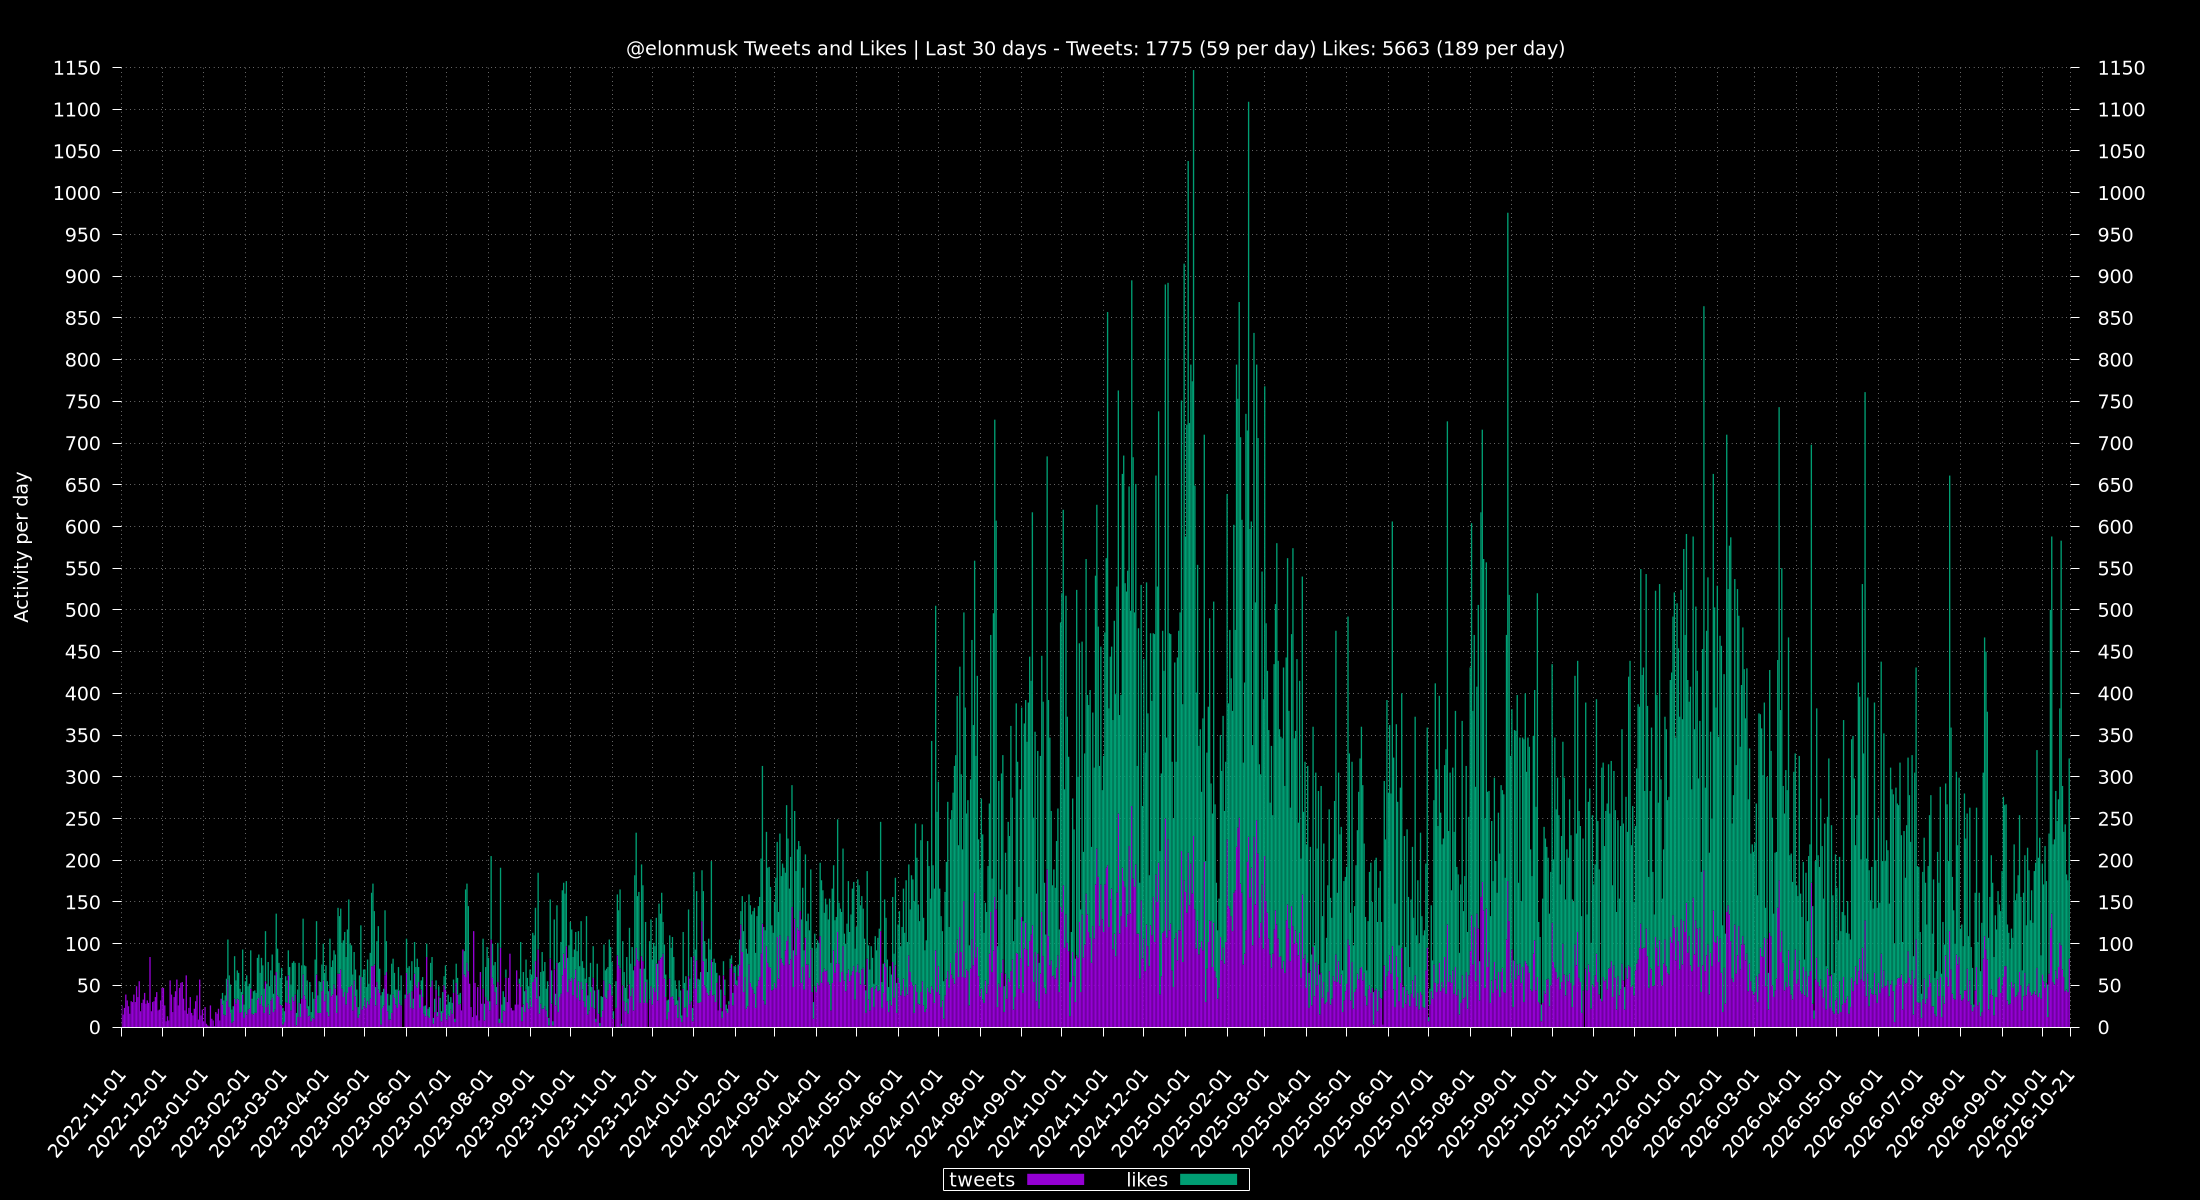
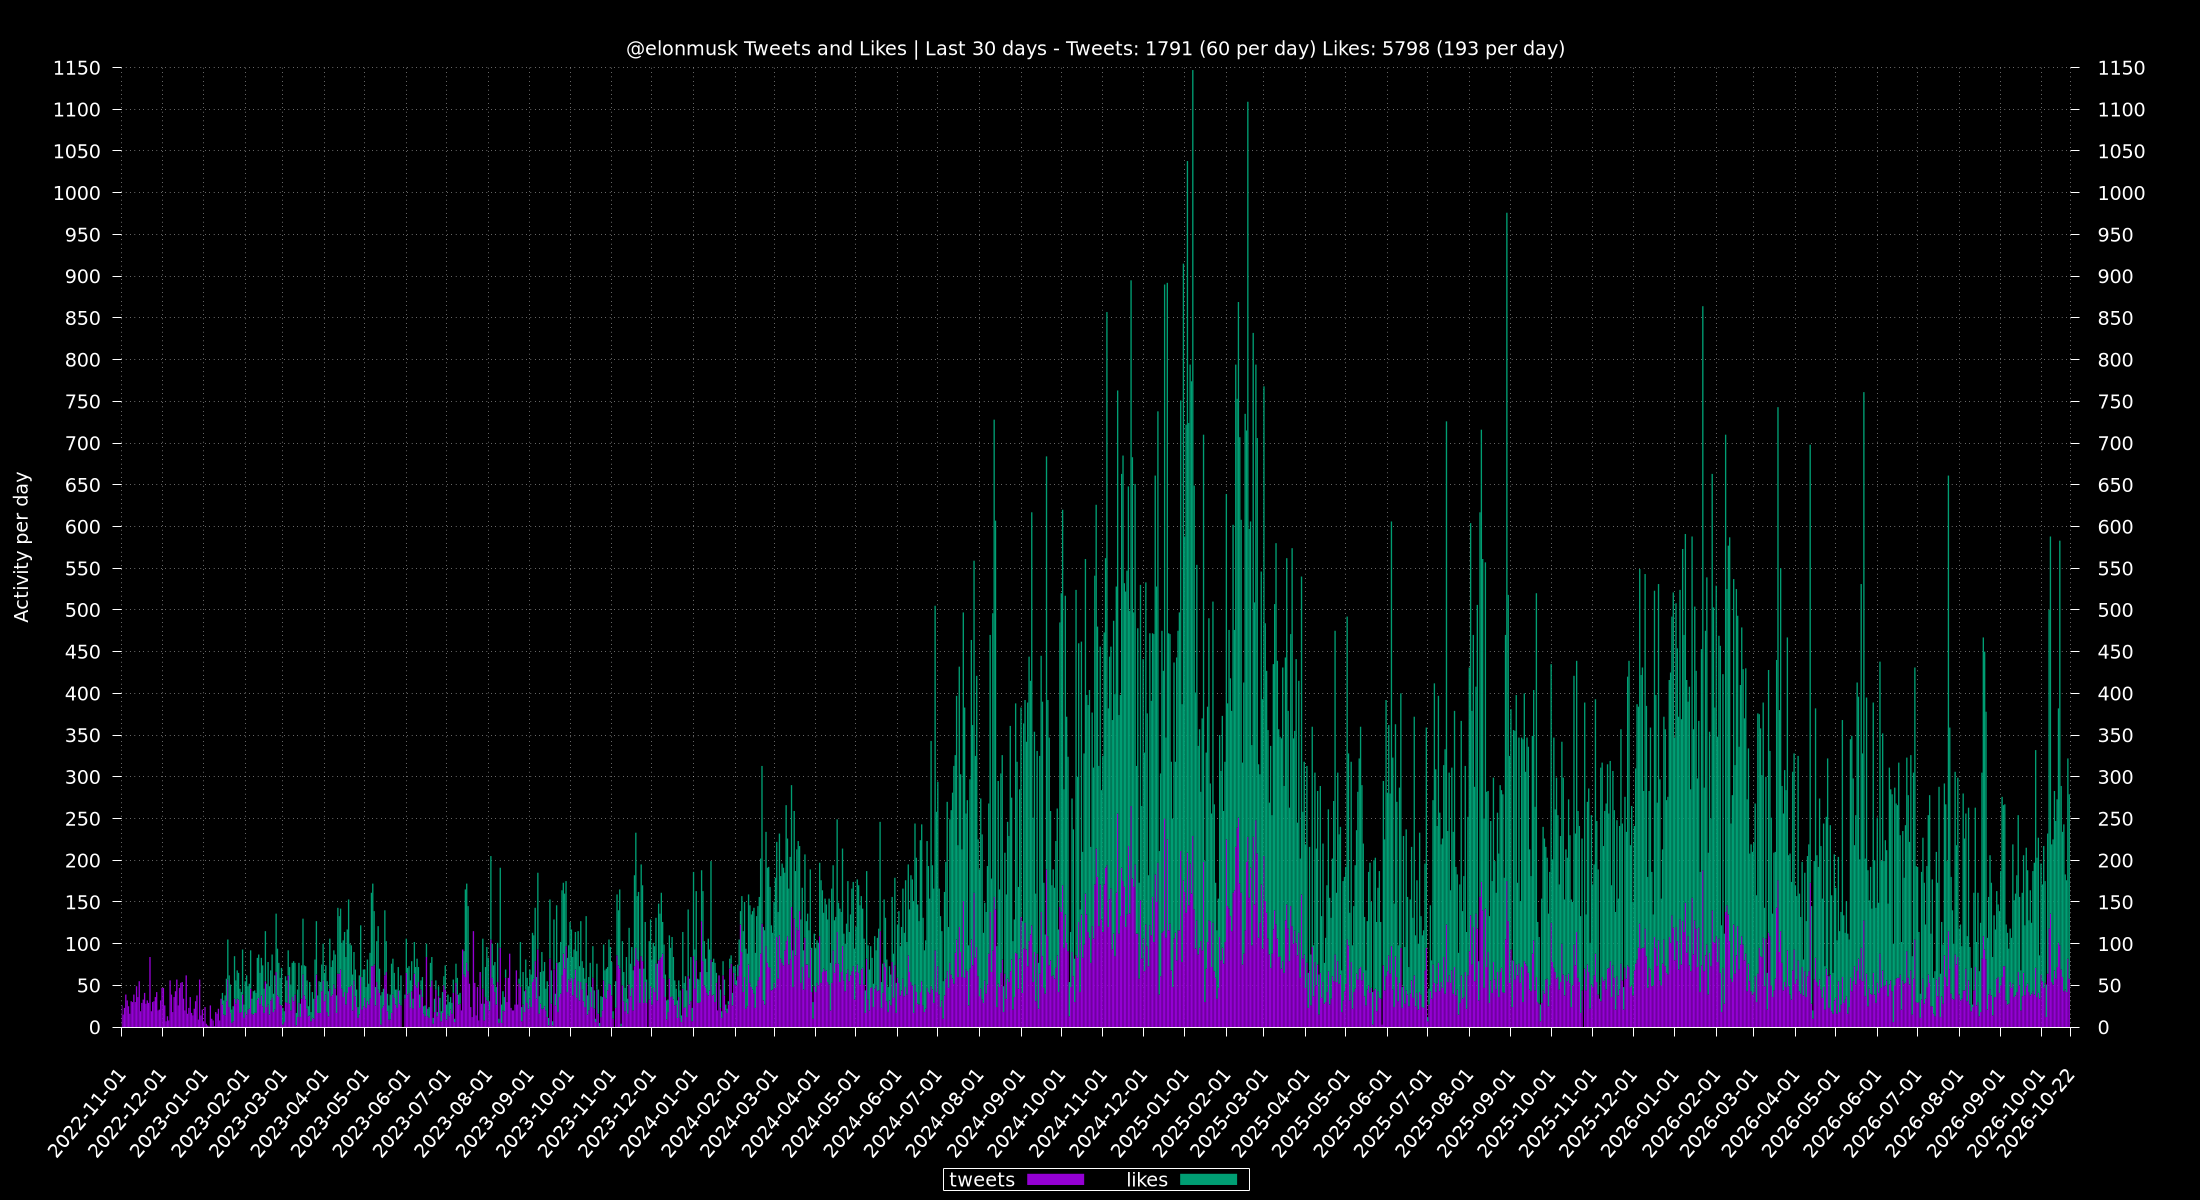
update via cron

diff --git a/totals/README.md b/totals/README.md
@@ -1,6 +1,6 @@
 ## Last 30 Days
-Tweets: 1775 (59 per day)\
-Likes: 5663 (189 per day)
+Tweets: 1791 (60 per day)\
+Likes: 5798 (193 per day)
 
 ## 24 Hours
 Max: [**341**](../misc/most-tweets_24-hr.csv) - From `2024-11-23 14:29:53 CST` To `2024-11-24 14:28:44 CST`
